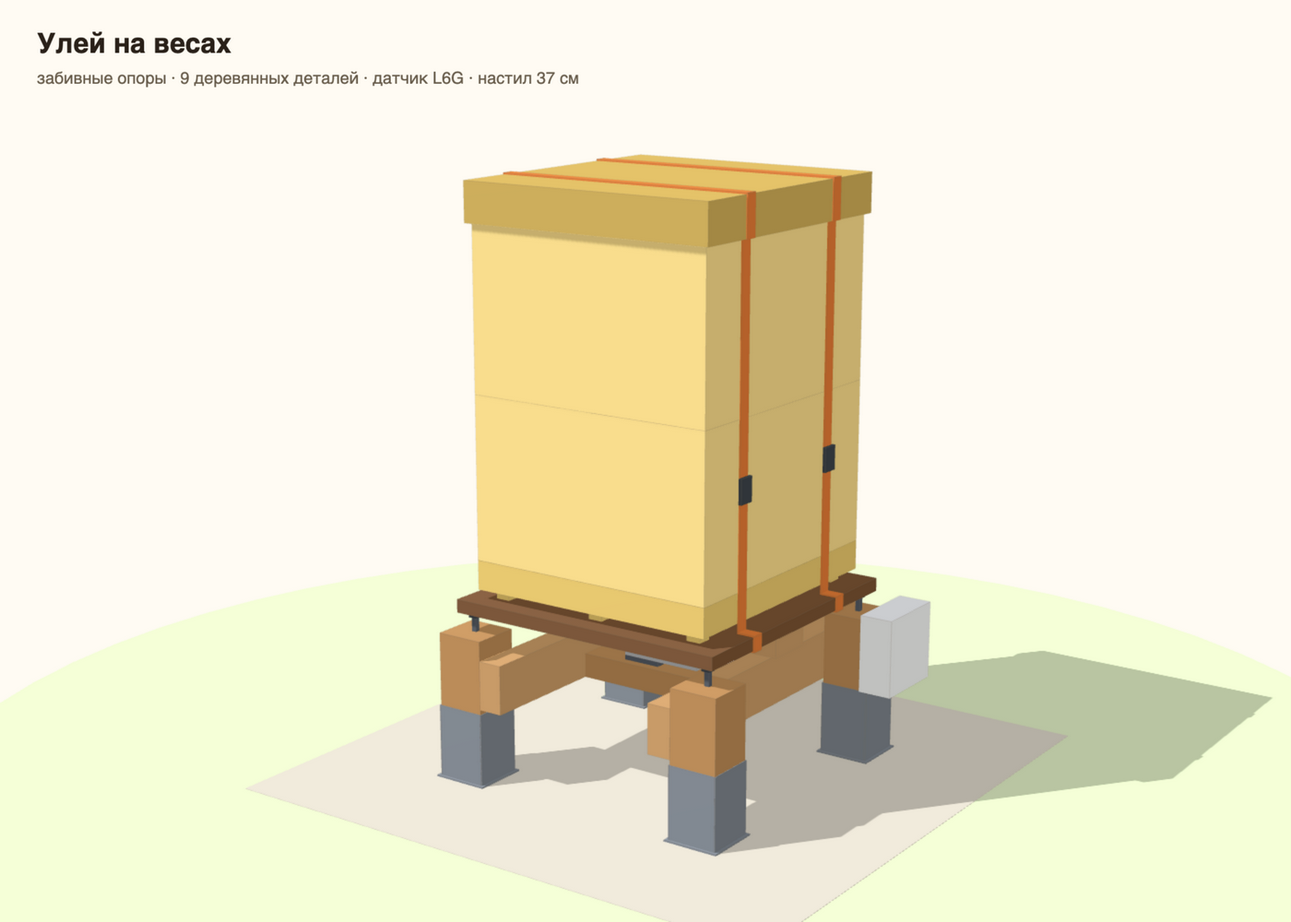
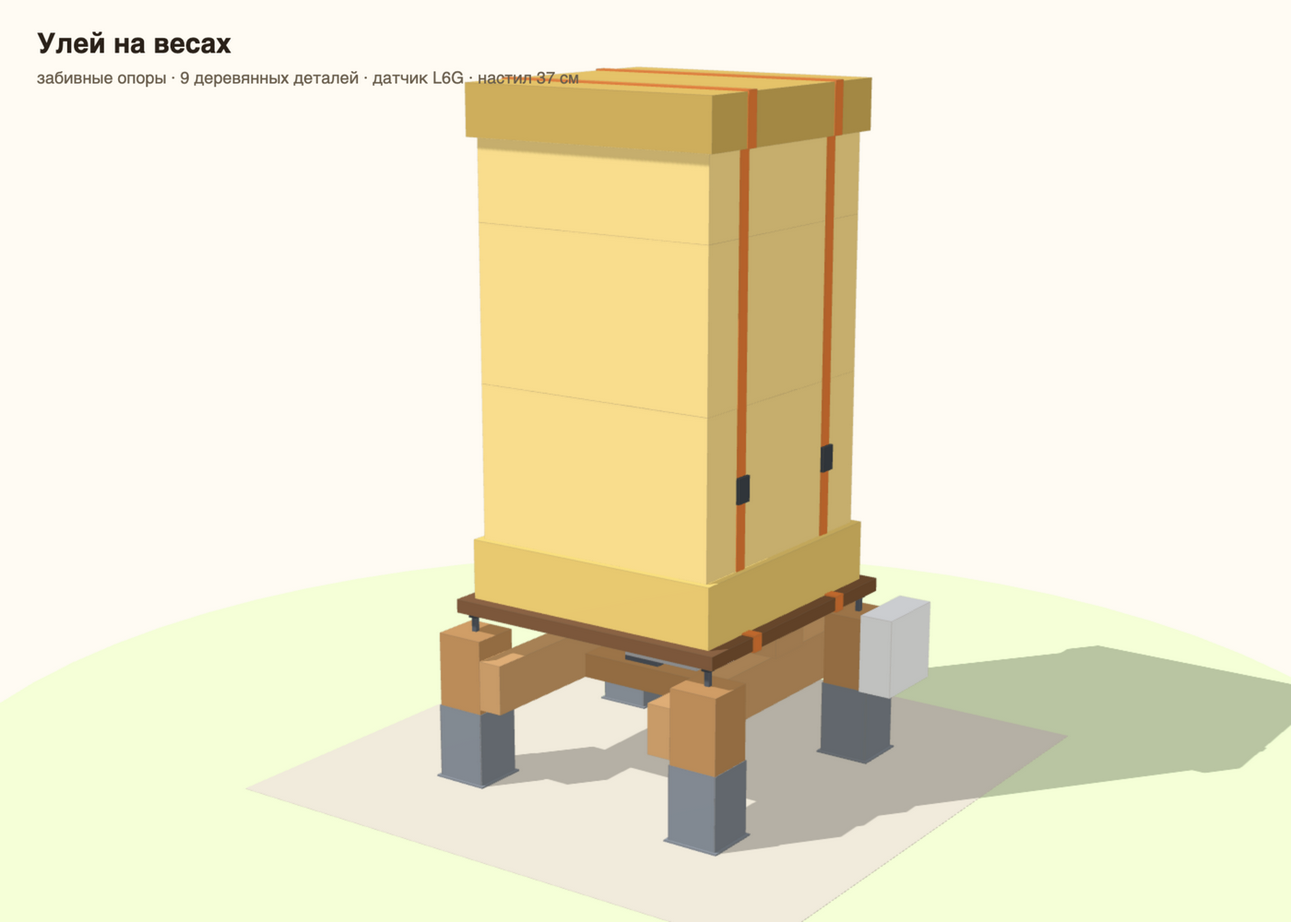
Улей Нижегородец с реальными размерами: дно 550×550×120, корпус 520×520×310, магазин 160, крыша 550×550×100
- модель, чертежи и 3D-вид обновлены с условного улья на реальный (beelekar.ru)
- настил 600×600 даёт запас 25 мм на сторону от дна 550
- верх магазина 1,27 м — заявленные «около 1,3 м» подтверждаются
- ремни переложены по реальным габаритам: крыша 550, корпус 520, настил 600

diff --git a/docs/tools/model.js b/docs/tools/model.js
@@ -1,1 +1,1 @@
-const MODEL = {"boxes": [{"name": "Грунт", "x0": -600, "x1": 600, "y0": -600, "y1": 600, "z0": -1000, "z1": 0, "color": "#CFC8BA", "group": "ground", "num": null}, {"name": "Забивная опора 100×100: пика", "x0": -295, "x1": -255, "y0": -295, "y1": -255, "z0": -900, "z1": 0, "color": "#8D99A6", "group": "base", "num": 10}, {"name": "Забивная опора 100×100: пластина", "x0": -333, "x1": -217, "y0": -333, "y1": -217, "z0": 0, "z1": 3, "color": "#8D99A6", "group": "base", "num": 10}, {"name": "Забивная опора 100×100: стакан", "x0": -327, "x1": -325, "y0": -327, "y1": -223, "z0": 3, "z1": 150, "color": "#8D99A6", "group": "base", "num": 10}, {"name": "Забивная опора 100×100: стакан", "x0": -225, "x1": -223, "y0": -327, "y1": -223, "z0": 3, "z1": 150, "color": "#8D99A6", "group": "base", "num": 10}, {"name": "Забивная опора 100×100: стакан", "x0": -325, "x1": -225, "y0": -327, "y1": -325, "z0": 3, "z1": 150, "color": "#8D99A6", "group": "base", "num": 10}, {"name": "Забивная опора 100×100: стакан", "x0": -325, "x1": -225, "y0": -225, "y1": -223, "z0": 3, "z1": 150, "color": "#8D99A6", "group": "base", "num": 10}, {"name": "Ножка: брус 100×100", "x0": -325, "x1": -225, "y0": -325, "y1": -225, "z0": 3, "z1": 300, "color": "#B9824A", "group": "base", "num": 1}, {"name": "Забивная опора 100×100: пика", "x0": -295, "x1": -255, "y0": 255, "y1": 295, "z0": -900, "z1": 0, "color": "#8D99A6", "group": "base", "num": 10}, {"name": "Забивная опора 100×100: пластина", "x0": -333, "x1": -217, "y0": 217, "y1": 333, "z0": 0, "z1": 3, "color": "#8D99A6", "group": "base", "num": 10}, {"name": "Забивная опора 100×100: стакан", "x0": -327, "x1": -325, "y0": 223, "y1": 327, "z0": 3, "z1": 150, "color": "#8D99A6", "group": "base", "num": 10}, {"name": "Забивная опора 100×100: стакан", "x0": -225, "x1": -223, "y0": 223, "y1": 327, "z0": 3, "z1": 150, "color": "#8D99A6", "group": "base", "num": 10}, {"name": "Забивная опора 100×100: стакан", "x0": -325, "x1": -225, "y0": 223, "y1": 225, "z0": 3, "z1": 150, "color": "#8D99A6", "group": "base", "num": 10}, {"name": "Забивная опора 100×100: стакан", "x0": -325, "x1": -225, "y0": 325, "y1": 327, "z0": 3, "z1": 150, "color": "#8D99A6", "group": "base", "num": 10}, {"name": "Ножка: брус 100×100", "x0": -325, "x1": -225, "y0": 225, "y1": 325, "z0": 3, "z1": 300, "color": "#B9824A", "group": "base", "num": 1}, {"name": "Забивная опора 100×100: пика", "x0": 255, "x1": 295, "y0": -295, "y1": -255, "z0": -900, "z1": 0, "color": "#8D99A6", "group": "base", "num": 10}, {"name": "Забивная опора 100×100: пластина", "x0": 217, "x1": 333, "y0": -333, "y1": -217, "z0": 0, "z1": 3, "color": "#8D99A6", "group": "base", "num": 10}, {"name": "Забивная опора 100×100: стакан", "x0": 223, "x1": 225, "y0": -327, "y1": -223, "z0": 3, "z1": 150, "color": "#8D99A6", "group": "base", "num": 10}, {"name": "Забивная опора 100×100: стакан", "x0": 325, "x1": 327, "y0": -327, "y1": -223, "z0": 3, "z1": 150, "color": "#8D99A6", "group": "base", "num": 10}, {"name": "Забивная опора 100×100: стакан", "x0": 225, "x1": 325, "y0": -327, "y1": -325, "z0": 3, "z1": 150, "color": "#8D99A6", "group": "base", "num": 10}, {"name": "Забивная опора 100×100: стакан", "x0": 225, "x1": 325, "y0": -225, "y1": -223, "z0": 3, "z1": 150, "color": "#8D99A6", "group": "base", "num": 10}, {"name": "Ножка: брус 100×100", "x0": 225, "x1": 325, "y0": -325, "y1": -225, "z0": 3, "z1": 300, "color": "#B9824A", "group": "base", "num": 1}, {"name": "Забивная опора 100×100: пика", "x0": 255, "x1": 295, "y0": 255, "y1": 295, "z0": -900, "z1": 0, "color": "#8D99A6", "group": "base", "num": 10}, {"name": "Забивная опора 100×100: пластина", "x0": 217, "x1": 333, "y0": 217, "y1": 333, "z0": 0, "z1": 3, "color": "#8D99A6", "group": "base", "num": 10}, {"name": "Забивная опора 100×100: стакан", "x0": 223, "x1": 225, "y0": 223, "y1": 327, "z0": 3, "z1": 150, "color": "#8D99A6", "group": "base", "num": 10}, {"name": "Забивная опора 100×100: стакан", "x0": 325, "x1": 327, "y0": 223, "y1": 327, "z0": 3, "z1": 150, "color": "#8D99A6", "group": "base", "num": 10}, {"name": "Забивная опора 100×100: стакан", "x0": 225, "x1": 325, "y0": 223, "y1": 225, "z0": 3, "z1": 150, "color": "#8D99A6", "group": "base", "num": 10}, {"name": "Забивная опора 100×100: стакан", "x0": 225, "x1": 325, "y0": 325, "y1": 327, "z0": 3, "z1": 150, "color": "#8D99A6", "group": "base", "num": 10}, {"name": "Ножка: брус 100×100", "x0": 225, "x1": 325, "y0": 225, "y1": 325, "z0": 3, "z1": 300, "color": "#B9824A", "group": "base", "num": 1}, {"name": "Лежень: доска 50×100×650", "x0": -225, "x1": -175, "y0": -325, "y1": 325, "z0": 160, "z1": 260, "color": "#C69159", "group": "base", "num": 2}, {"name": "Лежень: доска 50×100×650", "x0": 175, "x1": 225, "y0": -325, "y1": 325, "z0": 160, "z1": 260, "color": "#C69159", "group": "base", "num": 2}, {"name": "Средняя поперечина: доска 50×100×350 плашмя", "x0": -175, "x1": 175, "y0": -50.0, "y1": 50.0, "z0": 160, "z1": 210, "color": "#B9824A", "group": "base", "num": 3}, {"name": "Проставка, сталь 10 мм (неподвижный конец)", "x0": -87.0, "x1": -7.0, "y0": -32.5, "y1": 32.5, "z0": 210, "z1": 220, "color": "#4F5862", "group": "base", "num": 4}, {"name": "Датчик L6G 300 кг", "x0": -87.0, "x1": 87.0, "y0": -32.5, "y1": 32.5, "z0": 220, "z1": 280, "color": "#C9CED4", "group": "cell", "num": 5}, {"name": "Проставка, сталь 10 мм (грузовой конец)", "x0": 7.0, "x1": 87.0, "y0": -32.5, "y1": 32.5, "z0": 280, "z1": 290, "color": "#4F5862", "group": "top", "num": 4}, {"name": "Верхняя траверса: доска 50×100×560 плашмя", "x0": -280, "x1": 280, "y0": -50.0, "y1": 50.0, "z0": 290, "z1": 340, "color": "#C69159", "group": "top", "num": 6}, {"name": "Настил: ламинированная фанера 27 мм, 600×600", "x0": -300.0, "x1": 300.0, "y0": -300.0, "y1": 300.0, "z0": 340, "z1": 367, "color": "#7A4E2D", "group": "deck", "num": 7}, {"name": "Стоп-болт: шуруп-шпилька М10", "x0": -280, "x1": -270, "y0": -280, "y1": -270, "z0": 300, "z1": 329, "color": "#4F5862", "group": "base", "num": 8}, {"name": "Стоп-болт: гайка", "x0": -284, "x1": -266, "y0": -284, "y1": -266, "z0": 329, "z1": 337, "color": "#3A424A", "group": "base", "num": 8}, {"name": "Стоп-болт: шуруп-шпилька М10", "x0": -280, "x1": -270, "y0": 270, "y1": 280, "z0": 300, "z1": 329, "color": "#4F5862", "group": "base", "num": 8}, {"name": "Стоп-болт: гайка", "x0": -284, "x1": -266, "y0": 266, "y1": 284, "z0": 329, "z1": 337, "color": "#3A424A", "group": "base", "num": 8}, {"name": "Стоп-болт: шуруп-шпилька М10", "x0": 270, "x1": 280, "y0": -280, "y1": -270, "z0": 300, "z1": 329, "color": "#4F5862", "group": "base", "num": 8}, {"name": "Стоп-болт: гайка", "x0": 266, "x1": 284, "y0": -284, "y1": -266, "z0": 329, "z1": 337, "color": "#3A424A", "group": "base", "num": 8}, {"name": "Стоп-болт: шуруп-шпилька М10", "x0": 270, "x1": 280, "y0": 270, "y1": 280, "z0": 300, "z1": 329, "color": "#4F5862", "group": "base", "num": 8}, {"name": "Стоп-болт: гайка", "x0": 266, "x1": 284, "y0": 266, "y1": 284, "z0": 329, "z1": 337, "color": "#3A424A", "group": "base", "num": 8}, {"name": "Корпус электроники IP65", "x0": 325, "x1": 395, "y0": 195, "y1": 355, "z0": 160, "z1": 320, "color": "#E6E9EC", "group": "base", "num": 9}, {"name": "Ножка дна", "x0": -240.0, "x1": -210.0, "y0": -250.0, "y1": -220.0, "z0": 367, "z1": 387, "color": "#E3BE5A", "group": "hive", "num": null}, {"name": "Ножка дна", "x0": -240.0, "x1": -210.0, "y0": 220.0, "y1": 250.0, "z0": 367, "z1": 387, "color": "#E3BE5A", "group": "hive", "num": null}, {"name": "Ножка дна", "x0": -15, "x1": 15, "y0": -250.0, "y1": -220.0, "z0": 367, "z1": 387, "color": "#E3BE5A", "group": "hive", "num": null}, {"name": "Ножка дна", "x0": -15, "x1": 15, "y0": 220.0, "y1": 250.0, "z0": 367, "z1": 387, "color": "#E3BE5A", "group": "hive", "num": null}, {"name": "Ножка дна", "x0": 210.0, "x1": 240.0, "y0": -250.0, "y1": -220.0, "z0": 367, "z1": 387, "color": "#E3BE5A", "group": "hive", "num": null}, {"name": "Ножка дна", "x0": 210.0, "x1": 240.0, "y0": 220.0, "y1": 250.0, "z0": 367, "z1": 387, "color": "#E3BE5A", "group": "hive", "num": null}, {"name": "Дно", "x0": -265.0, "x1": 265.0, "y0": -275.0, "y1": 275.0, "z0": 387, "z1": 447, "color": "#E3BE5A", "group": "hive", "num": null}, {"name": "Корпус", "x0": -265.0, "x1": 265.0, "y0": -275.0, "y1": 275.0, "z0": 447, "z1": 777, "color": "#F2D27A", "group": "hive", "num": null}, {"name": "Корпус", "x0": -265.0, "x1": 265.0, "y0": -275.0, "y1": 275.0, "z0": 777, "z1": 1107, "color": "#F2D27A", "group": "hive", "num": null}, {"name": "Крыша", "x0": -275.0, "x1": 275.0, "y0": -285.0, "y1": 285.0, "z0": 1107, "z1": 1187, "color": "#C9A445", "group": "hive", "num": null}, {"name": "Ремень", "x0": -268.0, "x1": -265.0, "y0": -163, "y1": -137, "z0": 367, "z1": 1107, "color": "#E8701A", "group": "strap", "num": null}, {"name": "Ремень", "x0": -278.0, "x1": -275.0, "y0": -163, "y1": -137, "z0": 1107, "z1": 1190, "color": "#E8701A", "group": "strap", "num": null}, {"name": "Ремень", "x0": -303.0, "x1": -300.0, "y0": -163, "y1": -137, "z0": 337, "z1": 367, "color": "#E8701A", "group": "strap", "num": null}, {"name": "Ремень", "x0": -303.0, "x1": -265.0, "y0": -163, "y1": -137, "z0": 367, "z1": 370, "color": "#E8701A", "group": "strap", "num": null}, {"name": "Ремень", "x0": 265.0, "x1": 268.0, "y0": -163, "y1": -137, "z0": 367, "z1": 1107, "color": "#E8701A", "group": "strap", "num": null}, {"name": "Ремень", "x0": 275.0, "x1": 278.0, "y0": -163, "y1": -137, "z0": 1107, "z1": 1190, "color": "#E8701A", "group": "strap", "num": null}, {"name": "Ремень", "x0": 300.0, "x1": 303.0, "y0": -163, "y1": -137, "z0": 337, "z1": 367, "color": "#E8701A", "group": "strap", "num": null}, {"name": "Ремень", "x0": 265.0, "x1": 303.0, "y0": -163, "y1": -137, "z0": 367, "z1": 370, "color": "#E8701A", "group": "strap", "num": null}, {"name": "Ремень", "x0": -278.0, "x1": 278.0, "y0": -163, "y1": -137, "z0": 1187, "z1": 1190, "color": "#E8701A", "group": "strap", "num": null}, {"name": "Ремень", "x0": -303.0, "x1": 303.0, "y0": -163, "y1": -137, "z0": 337, "z1": 340, "color": "#E8701A", "group": "strap", "num": null}, {"name": "Храповик", "x0": 268.0, "x1": 274.0, "y0": -168, "y1": -132, "z0": 617, "z1": 667, "color": "#3A424A", "group": "strap", "num": null}, {"name": "Ремень", "x0": -268.0, "x1": -265.0, "y0": 137, "y1": 163, "z0": 367, "z1": 1107, "color": "#E8701A", "group": "strap", "num": null}, {"name": "Ремень", "x0": -278.0, "x1": -275.0, "y0": 137, "y1": 163, "z0": 1107, "z1": 1190, "color": "#E8701A", "group": "strap", "num": null}, {"name": "Ремень", "x0": -303.0, "x1": -300.0, "y0": 137, "y1": 163, "z0": 337, "z1": 367, "color": "#E8701A", "group": "strap", "num": null}, {"name": "Ремень", "x0": -303.0, "x1": -265.0, "y0": 137, "y1": 163, "z0": 367, "z1": 370, "color": "#E8701A", "group": "strap", "num": null}, {"name": "Ремень", "x0": 265.0, "x1": 268.0, "y0": 137, "y1": 163, "z0": 367, "z1": 1107, "color": "#E8701A", "group": "strap", "num": null}, {"name": "Ремень", "x0": 275.0, "x1": 278.0, "y0": 137, "y1": 163, "z0": 1107, "z1": 1190, "color": "#E8701A", "group": "strap", "num": null}, {"name": "Ремень", "x0": 300.0, "x1": 303.0, "y0": 137, "y1": 163, "z0": 337, "z1": 367, "color": "#E8701A", "group": "strap", "num": null}, {"name": "Ремень", "x0": 265.0, "x1": 303.0, "y0": 137, "y1": 163, "z0": 367, "z1": 370, "color": "#E8701A", "group": "strap", "num": null}, {"name": "Ремень", "x0": -278.0, "x1": 278.0, "y0": 137, "y1": 163, "z0": 1187, "z1": 1190, "color": "#E8701A", "group": "strap", "num": null}, {"name": "Ремень", "x0": -303.0, "x1": 303.0, "y0": 137, "y1": 163, "z0": 337, "z1": 340, "color": "#E8701A", "group": "strap", "num": null}, {"name": "Храповик", "x0": 268.0, "x1": 274.0, "y0": 132, "y1": 168, "z0": 617, "z1": 667, "color": "#3A424A", "group": "strap", "num": null}]};
+const MODEL = {"boxes": [{"name": "Грунт", "x0": -600, "x1": 600, "y0": -600, "y1": 600, "z0": -1000, "z1": 0, "color": "#CFC8BA", "group": "ground", "num": null}, {"name": "Забивная опора 100×100: пика", "x0": -295, "x1": -255, "y0": -295, "y1": -255, "z0": -900, "z1": 0, "color": "#8D99A6", "group": "base", "num": 10}, {"name": "Забивная опора 100×100: пластина", "x0": -333, "x1": -217, "y0": -333, "y1": -217, "z0": 0, "z1": 3, "color": "#8D99A6", "group": "base", "num": 10}, {"name": "Забивная опора 100×100: стакан", "x0": -327, "x1": -325, "y0": -327, "y1": -223, "z0": 3, "z1": 150, "color": "#8D99A6", "group": "base", "num": 10}, {"name": "Забивная опора 100×100: стакан", "x0": -225, "x1": -223, "y0": -327, "y1": -223, "z0": 3, "z1": 150, "color": "#8D99A6", "group": "base", "num": 10}, {"name": "Забивная опора 100×100: стакан", "x0": -325, "x1": -225, "y0": -327, "y1": -325, "z0": 3, "z1": 150, "color": "#8D99A6", "group": "base", "num": 10}, {"name": "Забивная опора 100×100: стакан", "x0": -325, "x1": -225, "y0": -225, "y1": -223, "z0": 3, "z1": 150, "color": "#8D99A6", "group": "base", "num": 10}, {"name": "Ножка: брус 100×100", "x0": -325, "x1": -225, "y0": -325, "y1": -225, "z0": 3, "z1": 300, "color": "#B9824A", "group": "base", "num": 1}, {"name": "Забивная опора 100×100: пика", "x0": -295, "x1": -255, "y0": 255, "y1": 295, "z0": -900, "z1": 0, "color": "#8D99A6", "group": "base", "num": 10}, {"name": "Забивная опора 100×100: пластина", "x0": -333, "x1": -217, "y0": 217, "y1": 333, "z0": 0, "z1": 3, "color": "#8D99A6", "group": "base", "num": 10}, {"name": "Забивная опора 100×100: стакан", "x0": -327, "x1": -325, "y0": 223, "y1": 327, "z0": 3, "z1": 150, "color": "#8D99A6", "group": "base", "num": 10}, {"name": "Забивная опора 100×100: стакан", "x0": -225, "x1": -223, "y0": 223, "y1": 327, "z0": 3, "z1": 150, "color": "#8D99A6", "group": "base", "num": 10}, {"name": "Забивная опора 100×100: стакан", "x0": -325, "x1": -225, "y0": 223, "y1": 225, "z0": 3, "z1": 150, "color": "#8D99A6", "group": "base", "num": 10}, {"name": "Забивная опора 100×100: стакан", "x0": -325, "x1": -225, "y0": 325, "y1": 327, "z0": 3, "z1": 150, "color": "#8D99A6", "group": "base", "num": 10}, {"name": "Ножка: брус 100×100", "x0": -325, "x1": -225, "y0": 225, "y1": 325, "z0": 3, "z1": 300, "color": "#B9824A", "group": "base", "num": 1}, {"name": "Забивная опора 100×100: пика", "x0": 255, "x1": 295, "y0": -295, "y1": -255, "z0": -900, "z1": 0, "color": "#8D99A6", "group": "base", "num": 10}, {"name": "Забивная опора 100×100: пластина", "x0": 217, "x1": 333, "y0": -333, "y1": -217, "z0": 0, "z1": 3, "color": "#8D99A6", "group": "base", "num": 10}, {"name": "Забивная опора 100×100: стакан", "x0": 223, "x1": 225, "y0": -327, "y1": -223, "z0": 3, "z1": 150, "color": "#8D99A6", "group": "base", "num": 10}, {"name": "Забивная опора 100×100: стакан", "x0": 325, "x1": 327, "y0": -327, "y1": -223, "z0": 3, "z1": 150, "color": "#8D99A6", "group": "base", "num": 10}, {"name": "Забивная опора 100×100: стакан", "x0": 225, "x1": 325, "y0": -327, "y1": -325, "z0": 3, "z1": 150, "color": "#8D99A6", "group": "base", "num": 10}, {"name": "Забивная опора 100×100: стакан", "x0": 225, "x1": 325, "y0": -225, "y1": -223, "z0": 3, "z1": 150, "color": "#8D99A6", "group": "base", "num": 10}, {"name": "Ножка: брус 100×100", "x0": 225, "x1": 325, "y0": -325, "y1": -225, "z0": 3, "z1": 300, "color": "#B9824A", "group": "base", "num": 1}, {"name": "Забивная опора 100×100: пика", "x0": 255, "x1": 295, "y0": 255, "y1": 295, "z0": -900, "z1": 0, "color": "#8D99A6", "group": "base", "num": 10}, {"name": "Забивная опора 100×100: пластина", "x0": 217, "x1": 333, "y0": 217, "y1": 333, "z0": 0, "z1": 3, "color": "#8D99A6", "group": "base", "num": 10}, {"name": "Забивная опора 100×100: стакан", "x0": 223, "x1": 225, "y0": 223, "y1": 327, "z0": 3, "z1": 150, "color": "#8D99A6", "group": "base", "num": 10}, {"name": "Забивная опора 100×100: стакан", "x0": 325, "x1": 327, "y0": 223, "y1": 327, "z0": 3, "z1": 150, "color": "#8D99A6", "group": "base", "num": 10}, {"name": "Забивная опора 100×100: стакан", "x0": 225, "x1": 325, "y0": 223, "y1": 225, "z0": 3, "z1": 150, "color": "#8D99A6", "group": "base", "num": 10}, {"name": "Забивная опора 100×100: стакан", "x0": 225, "x1": 325, "y0": 325, "y1": 327, "z0": 3, "z1": 150, "color": "#8D99A6", "group": "base", "num": 10}, {"name": "Ножка: брус 100×100", "x0": 225, "x1": 325, "y0": 225, "y1": 325, "z0": 3, "z1": 300, "color": "#B9824A", "group": "base", "num": 1}, {"name": "Лежень: доска 50×100×650", "x0": -225, "x1": -175, "y0": -325, "y1": 325, "z0": 160, "z1": 260, "color": "#C69159", "group": "base", "num": 2}, {"name": "Лежень: доска 50×100×650", "x0": 175, "x1": 225, "y0": -325, "y1": 325, "z0": 160, "z1": 260, "color": "#C69159", "group": "base", "num": 2}, {"name": "Средняя поперечина: доска 50×100×350 плашмя", "x0": -175, "x1": 175, "y0": -50.0, "y1": 50.0, "z0": 160, "z1": 210, "color": "#B9824A", "group": "base", "num": 3}, {"name": "Проставка, сталь 10 мм (неподвижный конец)", "x0": -87.0, "x1": -7.0, "y0": -32.5, "y1": 32.5, "z0": 210, "z1": 220, "color": "#4F5862", "group": "base", "num": 4}, {"name": "Датчик L6G 300 кг", "x0": -87.0, "x1": 87.0, "y0": -32.5, "y1": 32.5, "z0": 220, "z1": 280, "color": "#C9CED4", "group": "cell", "num": 5}, {"name": "Проставка, сталь 10 мм (грузовой конец)", "x0": 7.0, "x1": 87.0, "y0": -32.5, "y1": 32.5, "z0": 280, "z1": 290, "color": "#4F5862", "group": "top", "num": 4}, {"name": "Верхняя траверса: доска 50×100×560 плашмя", "x0": -280, "x1": 280, "y0": -50.0, "y1": 50.0, "z0": 290, "z1": 340, "color": "#C69159", "group": "top", "num": 6}, {"name": "Настил: ламинированная фанера 27 мм, 600×600", "x0": -300.0, "x1": 300.0, "y0": -300.0, "y1": 300.0, "z0": 340, "z1": 367, "color": "#7A4E2D", "group": "deck", "num": 7}, {"name": "Стоп-болт: шуруп-шпилька М10", "x0": -280, "x1": -270, "y0": -280, "y1": -270, "z0": 300, "z1": 329, "color": "#4F5862", "group": "base", "num": 8}, {"name": "Стоп-болт: гайка", "x0": -284, "x1": -266, "y0": -284, "y1": -266, "z0": 329, "z1": 337, "color": "#3A424A", "group": "base", "num": 8}, {"name": "Стоп-болт: шуруп-шпилька М10", "x0": -280, "x1": -270, "y0": 270, "y1": 280, "z0": 300, "z1": 329, "color": "#4F5862", "group": "base", "num": 8}, {"name": "Стоп-болт: гайка", "x0": -284, "x1": -266, "y0": 266, "y1": 284, "z0": 329, "z1": 337, "color": "#3A424A", "group": "base", "num": 8}, {"name": "Стоп-болт: шуруп-шпилька М10", "x0": 270, "x1": 280, "y0": -280, "y1": -270, "z0": 300, "z1": 329, "color": "#4F5862", "group": "base", "num": 8}, {"name": "Стоп-болт: гайка", "x0": 266, "x1": 284, "y0": -284, "y1": -266, "z0": 329, "z1": 337, "color": "#3A424A", "group": "base", "num": 8}, {"name": "Стоп-болт: шуруп-шпилька М10", "x0": 270, "x1": 280, "y0": 270, "y1": 280, "z0": 300, "z1": 329, "color": "#4F5862", "group": "base", "num": 8}, {"name": "Стоп-болт: гайка", "x0": 266, "x1": 284, "y0": 266, "y1": 284, "z0": 329, "z1": 337, "color": "#3A424A", "group": "base", "num": 8}, {"name": "Корпус электроники IP65", "x0": 325, "x1": 395, "y0": 195, "y1": 355, "z0": 160, "z1": 320, "color": "#E6E9EC", "group": "base", "num": 9}, {"name": "Дно: ППУ 550×550×120", "x0": -275.0, "x1": 275.0, "y0": -275.0, "y1": 275.0, "z0": 367, "z1": 487, "color": "#E3BE5A", "group": "hive", "num": null}, {"name": "Корпус: ППУ 520×520×310", "x0": -260.0, "x1": 260.0, "y0": -260.0, "y1": 260.0, "z0": 487, "z1": 797, "color": "#F2D27A", "group": "hive", "num": null}, {"name": "Корпус: ППУ 520×520×310", "x0": -260.0, "x1": 260.0, "y0": -260.0, "y1": 260.0, "z0": 797, "z1": 1107, "color": "#F2D27A", "group": "hive", "num": null}, {"name": "Магазин: ППУ 520×520×160", "x0": -260.0, "x1": 260.0, "y0": -260.0, "y1": 260.0, "z0": 1107, "z1": 1267, "color": "#F2D27A", "group": "hive", "num": null}, {"name": "Крыша: ППУ 550×550×100", "x0": -275.0, "x1": 275.0, "y0": -275.0, "y1": 275.0, "z0": 1267, "z1": 1367, "color": "#C9A445", "group": "hive", "num": null}, {"name": "Ремень", "x0": -263.0, "x1": -260.0, "y0": -163, "y1": -137, "z0": 367, "z1": 1267, "color": "#E8701A", "group": "strap", "num": null}, {"name": "Ремень", "x0": -278.0, "x1": -275.0, "y0": -163, "y1": -137, "z0": 1267, "z1": 1370, "color": "#E8701A", "group": "strap", "num": null}, {"name": "Ремень", "x0": -303.0, "x1": -300.0, "y0": -163, "y1": -137, "z0": 337, "z1": 367, "color": "#E8701A", "group": "strap", "num": null}, {"name": "Ремень", "x0": -303.0, "x1": -260.0, "y0": -163, "y1": -137, "z0": 367, "z1": 370, "color": "#E8701A", "group": "strap", "num": null}, {"name": "Ремень", "x0": 260.0, "x1": 263.0, "y0": -163, "y1": -137, "z0": 367, "z1": 1267, "color": "#E8701A", "group": "strap", "num": null}, {"name": "Ремень", "x0": 275.0, "x1": 278.0, "y0": -163, "y1": -137, "z0": 1267, "z1": 1370, "color": "#E8701A", "group": "strap", "num": null}, {"name": "Ремень", "x0": 300.0, "x1": 303.0, "y0": -163, "y1": -137, "z0": 337, "z1": 367, "color": "#E8701A", "group": "strap", "num": null}, {"name": "Ремень", "x0": 260.0, "x1": 303.0, "y0": -163, "y1": -137, "z0": 367, "z1": 370, "color": "#E8701A", "group": "strap", "num": null}, {"name": "Ремень", "x0": -278.0, "x1": 278.0, "y0": -163, "y1": -137, "z0": 1367, "z1": 1370, "color": "#E8701A", "group": "strap", "num": null}, {"name": "Ремень", "x0": -303.0, "x1": 303.0, "y0": -163, "y1": -137, "z0": 337, "z1": 340, "color": "#E8701A", "group": "strap", "num": null}, {"name": "Храповик", "x0": 263.0, "x1": 269.0, "y0": -168, "y1": -132, "z0": 617, "z1": 667, "color": "#3A424A", "group": "strap", "num": null}, {"name": "Ремень", "x0": -263.0, "x1": -260.0, "y0": 137, "y1": 163, "z0": 367, "z1": 1267, "color": "#E8701A", "group": "strap", "num": null}, {"name": "Ремень", "x0": -278.0, "x1": -275.0, "y0": 137, "y1": 163, "z0": 1267, "z1": 1370, "color": "#E8701A", "group": "strap", "num": null}, {"name": "Ремень", "x0": -303.0, "x1": -300.0, "y0": 137, "y1": 163, "z0": 337, "z1": 367, "color": "#E8701A", "group": "strap", "num": null}, {"name": "Ремень", "x0": -303.0, "x1": -260.0, "y0": 137, "y1": 163, "z0": 367, "z1": 370, "color": "#E8701A", "group": "strap", "num": null}, {"name": "Ремень", "x0": 260.0, "x1": 263.0, "y0": 137, "y1": 163, "z0": 367, "z1": 1267, "color": "#E8701A", "group": "strap", "num": null}, {"name": "Ремень", "x0": 275.0, "x1": 278.0, "y0": 137, "y1": 163, "z0": 1267, "z1": 1370, "color": "#E8701A", "group": "strap", "num": null}, {"name": "Ремень", "x0": 300.0, "x1": 303.0, "y0": 137, "y1": 163, "z0": 337, "z1": 367, "color": "#E8701A", "group": "strap", "num": null}, {"name": "Ремень", "x0": 260.0, "x1": 303.0, "y0": 137, "y1": 163, "z0": 367, "z1": 370, "color": "#E8701A", "group": "strap", "num": null}, {"name": "Ремень", "x0": -278.0, "x1": 278.0, "y0": 137, "y1": 163, "z0": 1367, "z1": 1370, "color": "#E8701A", "group": "strap", "num": null}, {"name": "Ремень", "x0": -303.0, "x1": 303.0, "y0": 137, "y1": 163, "z0": 337, "z1": 340, "color": "#E8701A", "group": "strap", "num": null}, {"name": "Храповик", "x0": 263.0, "x1": 269.0, "y0": 132, "y1": 168, "z0": 617, "z1": 667, "color": "#3A424A", "group": "strap", "num": null}]};

diff --git a/docs/tools/model.py b/docs/tools/model.py
@@ -43,7 +43,7 @@ z_ut1 = z_ut0 + BOARD                          # 340 — верх верхней
 z_deck = z_ut1 + DECK_T                        # 367
 z_leg = z_ut1 - 40                             # 300 — верх ножек; в торце — стоп-болт
 
-HIVE_X, HIVE_Y = 530, 550   # условные габариты улья; измерь свой
+HIVE_X, HIVE_Y = 550, 550   # габарит улья по дну и крыше (Нижегородец, реальные размеры)
 
 boxes = []
 
@@ -95,32 +95,31 @@ for sx in (-1, 1):
 # 9. Коробка электроники — на наружной грани задней правой ножки (неподвижная часть)
 box("Корпус электроники IP65", LEG + 50, LEG + 120, LEG - 80, LEG + 80, CUP + 10, CUP + 170, BOX, "base", 9)
 
-# Улей (условные размеры)
-hx, hy = HIVE_X / 2, HIVE_Y / 2
-for lx in (-hx + 40, 0, hx - 40):
-    for ly in (-hy + 40, hy - 40):
-        box("Ножка дна", lx - 15, lx + 15, ly - 15, ly + 15, z_deck, z_deck + 20, HIVE_D, "hive")
-z = z_deck + 20
-box("Дно", -hx, hx, -hy, hy, z, z + 60, HIVE_D, "hive"); z += 60
-box("Корпус", -hx, hx, -hy, hy, z, z + 330, HIVE, "hive"); z += 330
-box("Корпус", -hx, hx, -hy, hy, z, z + 330, HIVE, "hive"); z += 330
-box("Крыша", -hx - 10, hx + 10, -hy - 10, hy + 10, z, z + 80, ROOF, "hive"); z_top = z + 80
+# Улей «Нижегородец» из ППУ (beelekar.ru), реальные размеры:
+# дно 550×550×120, корпус 520×520×310, магазин 520×520×160, крыша 550×550×100
+BODY = 520
+LID = 550
+z = z_deck
+box("Дно: ППУ 550×550×120", -LID / 2, LID / 2, -LID / 2, LID / 2, z, z + 120, HIVE_D, "hive"); z += 120
+box("Корпус: ППУ 520×520×310", -BODY / 2, BODY / 2, -BODY / 2, BODY / 2, z, z + 310, HIVE, "hive"); z += 310
+box("Корпус: ППУ 520×520×310", -BODY / 2, BODY / 2, -BODY / 2, BODY / 2, z, z + 310, HIVE, "hive"); z += 310
+box("Магазин: ППУ 520×520×160", -BODY / 2, BODY / 2, -BODY / 2, BODY / 2, z, z + 160, HIVE, "hive"); z += 160
+box("Крыша: ППУ 550×550×100", -LID / 2, LID / 2, -LID / 2, LID / 2, z, z + 100, ROOF, "hive"); z_top = z + 100
 
 # Ремни — вдоль X: через крышу, по бокам улья и по низу настила (в стороне от траверсы)
-z_top_roof = z_top
 for cy in (-150, 150):
     y0, y1 = cy - 13, cy + 13
     for sx in (-1, 1):
-        x0, x1 = sorted((sx * (hx + 3), sx * hx))
-        box("Ремень", x0, x1, y0, y1, z_deck, z_top - 80, STRAP, "strap")
-        x0, x1 = sorted((sx * (hx + 13), sx * (hx + 10)))
-        box("Ремень", x0, x1, y0, y1, z_top - 80, z_top + 3, STRAP, "strap")
+        x0, x1 = sorted((sx * (BODY / 2), sx * (BODY / 2 + 3)))
+        box("Ремень", x0, x1, y0, y1, z_deck, z_top - 100, STRAP, "strap")
+        x0, x1 = sorted((sx * (LID / 2), sx * (LID / 2 + 3)))
+        box("Ремень", x0, x1, y0, y1, z_top - 100, z_top + 3, STRAP, "strap")
         x0, x1 = sorted((sx * (DECK / 2 + 3), sx * DECK / 2))
         box("Ремень", x0, x1, y0, y1, z_ut1 - 3, z_deck, STRAP, "strap")
-        x0, x1 = sorted((sx * hx, sx * DECK / 2 + 3 * sx))
+        x0, x1 = sorted((sx * (BODY / 2), sx * DECK / 2 + 3 * sx))
         box("Ремень", x0, x1, y0, y1, z_deck, z_deck + 3, STRAP, "strap")
-    box("Ремень", -hx - 13, hx + 13, y0, y1, z_top, z_top + 3, STRAP, "strap")
+    box("Ремень", -LID / 2 - 3, LID / 2 + 3, y0, y1, z_top, z_top + 3, STRAP, "strap")
     box("Ремень", -DECK / 2 - 3, DECK / 2 + 3, y0, y1, z_ut1 - 3, z_ut1, STRAP, "strap")
-    box("Храповик", hx + 3, hx + 9, y0 - 5, y1 + 5, z_deck + 250, z_deck + 300, "#3A424A", "strap")
+    box("Храповик", BODY / 2 + 3, BODY / 2 + 9, y0 - 5, y1 + 5, z_deck + 250, z_deck + 300, "#3A424A", "strap")
 
 HEIGHT_TOP = z_top

diff --git a/docs/tools/build_drawings.py b/docs/tools/build_drawings.py
@@ -52,7 +52,7 @@ def front():
     OX, OY = 560, 760           # экранные координаты точки x=0, z=0
     X = lambda x: OX + x * S
     Z = lambda z: OY - z * S
-    o = head(W, H, "Вид спереди", "размеры в мм · улей показан условно — сними размеры своего · датчик L6G — по паспорту")
+    o = head(W, H, "Вид спереди", "размеры в мм · улей Нижегородец из ППУ (дно 550×550, корпус 520×310, магазин 160, крыша 100) · датчик — по паспорту")
     # грунт
     o.append(f'<rect x="{X(-620):.1f}" y="{Z(0):.1f}" width="{1240 * S:.1f}" height="{(M.LEG_DOWN + 80) * S:.1f}" fill="url(#soil)"/>')
     o.append(f'<line x1="{X(-640):.1f}" y1="{Z(0):.1f}" x2="{X(640):.1f}" y2="{Z(0):.1f}" stroke="{INK}" stroke-width="1.6"/>')
@@ -73,7 +73,7 @@ def front():
     for b in hb:
         o.append(f'<rect x="{X(b["x0"]):.1f}" y="{Z(b["z1"]):.1f}" width="{(b["x1"] - b["x0"]) * S:.1f}" height="{(b["z1"] - b["z0"]) * S:.1f}" '
                  f'fill="#F2D27A" fill-opacity="0.25" stroke="#C9A445" stroke-width="1.2" stroke-dasharray="6 4"/>')
-    o.append(f'<text x="{X(0):.1f}" y="{Z(1000):.1f}" fill="#A8862E" font-size="16" font-weight="700" text-anchor="middle">улей (условно)</text>')
+    o.append(f'<text x="{X(0):.1f}" y="{Z(M.HEIGHT_TOP + 40):.1f}" fill="#A8862E" font-size="16" font-weight="700" text-anchor="middle">улей Нижегородец (ППУ)</text>')
     # ремень
     for b in M.boxes:
         if b["group"] == "strap" and b["name"] == "Ремень" and b["y0"] < 0:
@@ -125,7 +125,7 @@ def top():
     # настил и улей
     o.append(f'<rect x="{X(-300):.1f}" y="{Y(300):.1f}" width="{600 * S:.1f}" height="{600 * S:.1f}" fill="#7A4E2D" fill-opacity="0.12" stroke="#7A4E2D" stroke-width="2" stroke-dasharray="10 6"/>')
     o.append(f'<rect x="{X(-M.HIVE_X / 2):.1f}" y="{Y(M.HIVE_Y / 2):.1f}" width="{M.HIVE_X * S:.1f}" height="{M.HIVE_Y * S:.1f}" fill="none" stroke="#C9A445" stroke-width="1.5" stroke-dasharray="3 5"/>')
-    o.append(f'<text x="{X(0):.1f}" y="{Y(-M.HIVE_Y / 2) - 8:.1f}" fill="#A8862E" font-size="13" text-anchor="middle">контур дна улья (условно)</text>')
+    o.append(f'<text x="{X(0):.1f}" y="{Y(-M.HIVE_Y / 2) - 8:.1f}" fill="#A8862E" font-size="13" text-anchor="middle">контур дна улья 550×550</text>')
     # стрелка «перед / леток»
     o.append(f'<text x="{X(0):.1f}" y="{Y(-560):.1f}" fill="{MUTED}" font-size="14" font-weight="700" text-anchor="middle">▼ перед (леток)</text>')
     # размеры

diff --git a/docs/BUILD.md b/docs/BUILD.md
@@ -44,7 +44,7 @@
 > **Интерактивная 3D-сборка:** [`tools/assembly.html`](tools/assembly.html) — все 17 шагов с крепежом, анимацией вкручивания, отверстиями под сверление и крупными планами узлов. Скачай репозиторий и открой файл в браузере (нужен интернет для загрузки three.js).
 
 > [!IMPORTANT]
-> Перед покупкой **измерь дно своего улья**: на чертежах улей условный, 530×550. Настил делай на 20–40 мм больше дна с каждой стороны, но не больше 600×600 — это предел платформы для L6G. Высоту датчика и расположение его отверстий возьми из паспорта.
+> На чертежах улей **Нижегородец из ППУ**: дно 550×550×120, корпуса и магазин 520×520, крыша 550×550. Настил 600×600 даёт запас **25 мм на сторону** (норма 20–40 мм), предел платформы для L6G — 600×600. Под другой улей настил делай на 20–40 мм больше его дна. Высоту датчика и расположение его отверстий возьми из паспорта.
 
 ---
 
